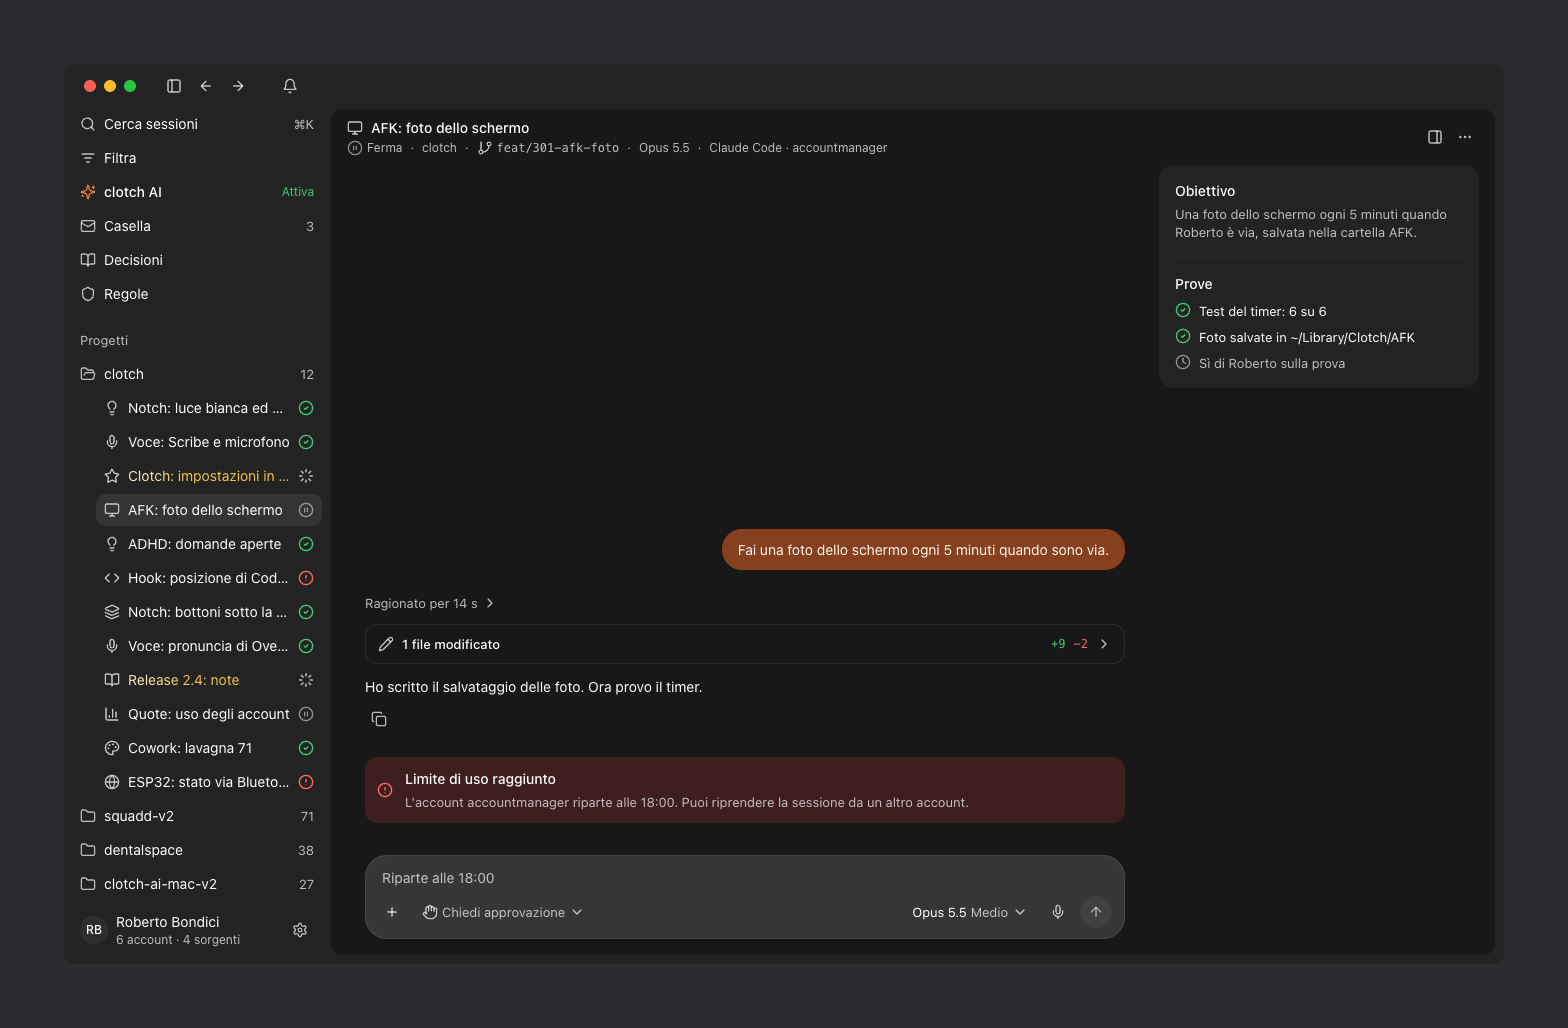
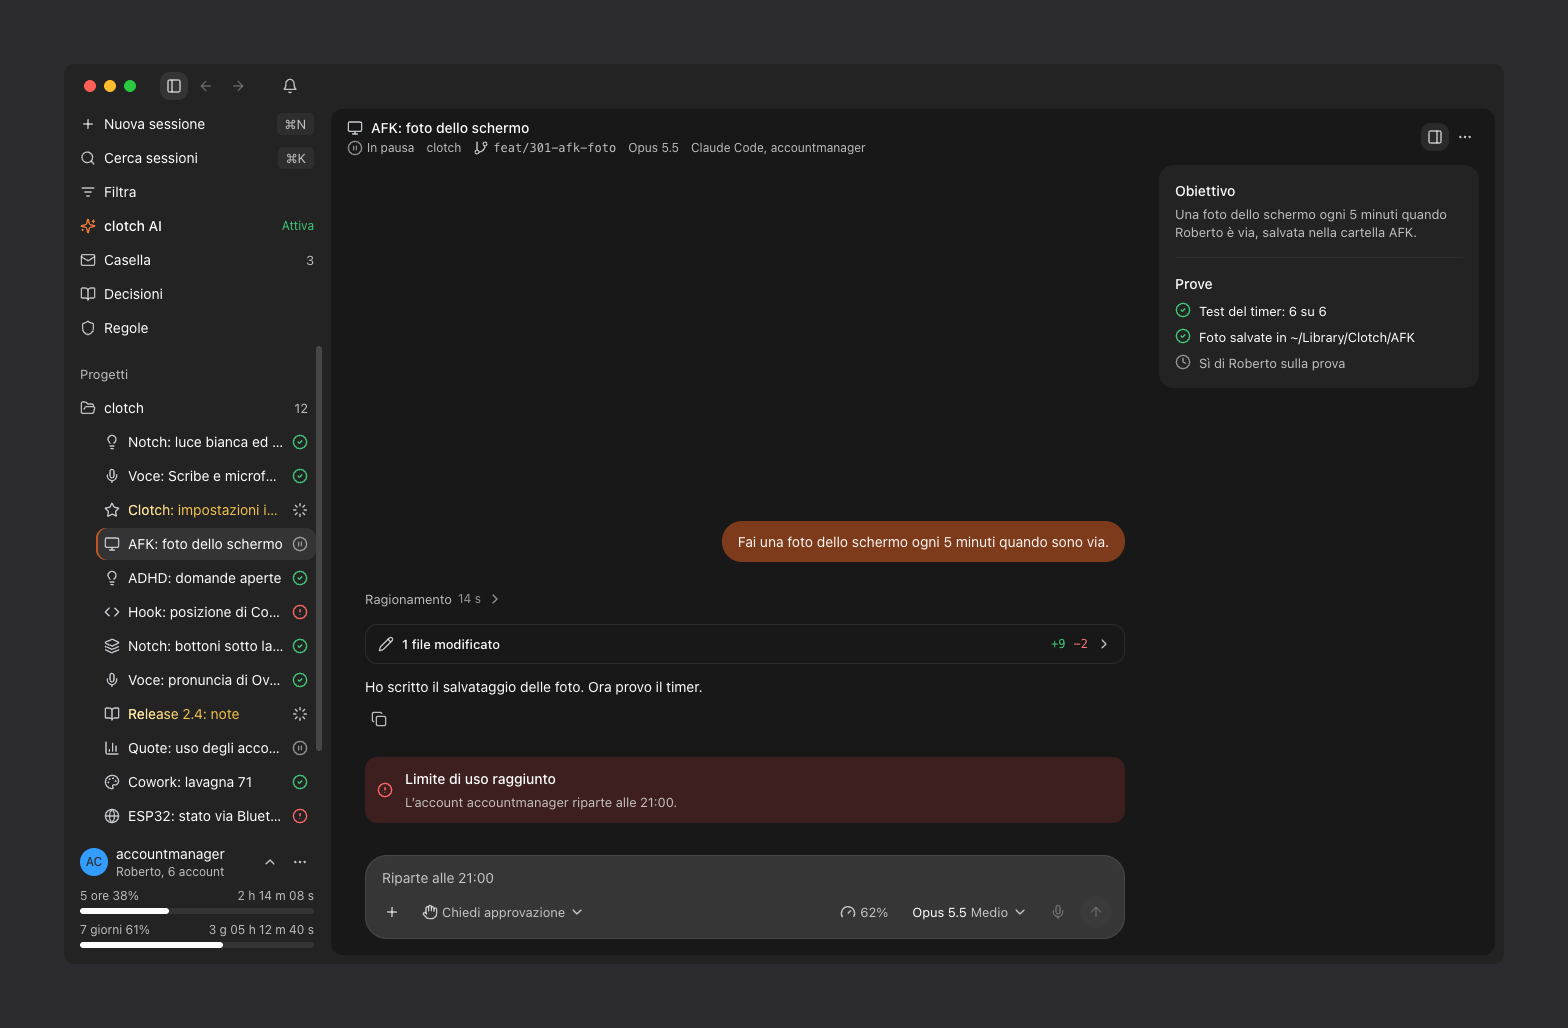
fix(#810): il frame 101-9340 ha il bottone account con le quote, come il disegno

diff --git a/sessioni/src/ui/barra/prova.ts b/sessioni/src/ui/barra/prova.ts
@@ -150,6 +150,21 @@ function filtrata(aperto?: Aperto): Prova {
 FRAME["101-10017"] = () => filtrata({ tipo: "opzioni", i: 1, a: { x: 334, y: 250 } });
 FRAME["101-16818"] = () => filtrata({ tipo: "proprieta", a: { x: 334, y: 250 } });
 
+// bottone account (#478: 148-62026 normale, 148-62191 primo menu, 148-62379 secondo menu, 148-62621 al 90 %, 148-62813 sessione fuori dal motore):
+// la sessione aperta è del motore (account `.claude-accountmanager`), tranne l'ultimo frame; l'ora è ferma, i conti alla rovescia sono quelli del disegno.
+const H = 3_600_000, M = 60_000, S = 1000;
+const quota = (account: string, cinque: number, cf: number, sette: number, sf: number): QuotaUso =>
+  ({ account, email: `${account}@example.com`, usato: sette, ripartenza: "", cinque, cinqueFine: ORA + cf, sette, setteFine: ORA + sf });
+const QUOTE = (a: [number, number, number, number] = [38, 2 * H + 14 * M + 8 * S, 61, 3 * 24 * H + 5 * H + 12 * M + 40 * S]): QuotaUso[] => [
+  quota("accountmanager", ...a), quota("squadd", 72, 3 * H, 40, 2 * 24 * H), quota("friday", 100, 47 * M + 30 * S, 88, 24 * H), quota("dentalspace", 12, 4 * H, 20, 5 * 24 * H),
+];
+const CON_ACCOUNT = (menu: 0 | 1 | 2, o: { motore?: boolean; novanta?: boolean; passaggio?: string; altri?: number } = {}, da: () => Prova = base) => (): Prova => {
+  const b = da(), id = b.scelta!;
+  if (o.motore !== false) (b.registro!.chat as Map<string, unknown>).set(id, { chat: id, account: ".claude-accountmanager", sorgente: "motore", visto: ORA, richieste: [], passi: [], aiutanti: new Map() });
+  const quote = QUOTE(o.novanta ? [90, 21 * M + 36 * S, 74, 2 * 24 * H + 8 * H + 40 * M + 12 * S] : undefined);
+  for (let i = 0; i < (o.altri ?? 0); i++) quote.push(quota(`altro-${i + 1}`, 10, 4 * H, 10, 5 * 24 * H)); // il disegno di 101:9340 ha 6 account
+  return { ...b, account: { ora: ORA, quote, previsto: null, menu, passaggio: o.passaggio } };
+};
 // 200 sessioni (101:9340): le dodici visibili di clotch con le loro icone, le altre cartelle chiuse
 const TANTE: [string, string, Stato][] = [
   ["Notch: luce bianca ed errore", "lampadina", "finita"], ["Voce: Scribe e microfono", "microfono", "finita"],
@@ -159,13 +174,13 @@ const TANTE: [string, string, Stato][] = [
   ["Release 2.4: note", "libro", "lavora"], ["Quote: uso degli account", "grafico", "ferma"],
   ["Cowork: lavagna 71", "tavolozza", "finita"], ["ESP32: stato via Bluetooth", "globo", "finita"],
 ];
-FRAME["101-9340"] = () => {
+FRAME["101-9340"] = CON_ACCOUNT(0, { altri: 2 }, () => {
   const lista = TANTE.map(([t, , st], i) => s(t, "clotch", st, i + 1));
   for (const x of lista) if (/^(Hook|ESP32):/.test(x.titolo)) x.situazione = { adesso: "errore", strumento: null, inCoda: 0, segni: [] }; // 101:9109: segno rosso
   const pref = Object.fromEntries(lista.map((x, i) => [x.id, { icona: TANTE[i][1] }]));
   const sessioni = [...lista, ...riempi("squadd-v2", 71, 60), ...riempi("dentalspace", 38, 200), ...riempi("clotch-ai-mac-v2", 27, 400)];
   return { ora: ORA, elenco: pronto(sessioni), pref, registro: registro({ aspettano: 3 }), scelta: lista[3].id };
-};
+}); // il piede ha il bottone account con le quote, come nel disegno
 
 /** Ricerca: «Lettura dei log di Codex» nel titolo; tre sessioni trovate solo nei messaggi, coi frammenti di 101:10247. */
 function ricerca(testo: string): Prova {
@@ -220,20 +235,6 @@ const BARRE: Record<string, string> = {
 };
 for (const [barra, finestra] of Object.entries(BARRE)) FRAME[barra] = FRAME[finestra] ?? (() => base());
 
-// bottone account (#478: 148-62026 normale, 148-62191 primo menu, 148-62379 secondo menu, 148-62621 al 90 %, 148-62813 sessione fuori dal motore):
-// la sessione aperta è del motore (account `.claude-accountmanager`), tranne l'ultimo frame; l'ora è ferma, i conti alla rovescia sono quelli del disegno.
-const H = 3_600_000, M = 60_000, S = 1000;
-const quota = (account: string, cinque: number, cf: number, sette: number, sf: number): QuotaUso =>
-  ({ account, email: `${account}@example.com`, usato: sette, ripartenza: "", cinque, cinqueFine: ORA + cf, sette, setteFine: ORA + sf });
-const QUOTE = (a: [number, number, number, number] = [38, 2 * H + 14 * M + 8 * S, 61, 3 * 24 * H + 5 * H + 12 * M + 40 * S]): QuotaUso[] => [
-  quota("accountmanager", ...a), quota("squadd", 72, 3 * H, 40, 2 * 24 * H), quota("friday", 100, 47 * M + 30 * S, 88, 24 * H), quota("dentalspace", 12, 4 * H, 20, 5 * 24 * H),
-];
-const CON_ACCOUNT = (menu: 0 | 1 | 2, o: { motore?: boolean; novanta?: boolean; passaggio?: string } = {}) => (): Prova => {
-  const b = base(), id = b.scelta!;
-  if (o.motore !== false) (b.registro!.chat as Map<string, unknown>).set(id, { chat: id, account: ".claude-accountmanager", sorgente: "motore", visto: ORA, richieste: [], passi: [], aiutanti: new Map() });
-  const quote = QUOTE(o.novanta ? [90, 21 * M + 36 * S, 74, 2 * 24 * H + 8 * H + 40 * M + 12 * S] : undefined);
-  return { ...b, account: { ora: ORA, quote, previsto: null, menu, passaggio: o.passaggio } };
-};
 FRAME["148-62026"] = CON_ACCOUNT(0);
 FRAME["148-62191"] = CON_ACCOUNT(1);
 FRAME["148-62379"] = CON_ACCOUNT(2, { passaggio: "squadd" });
